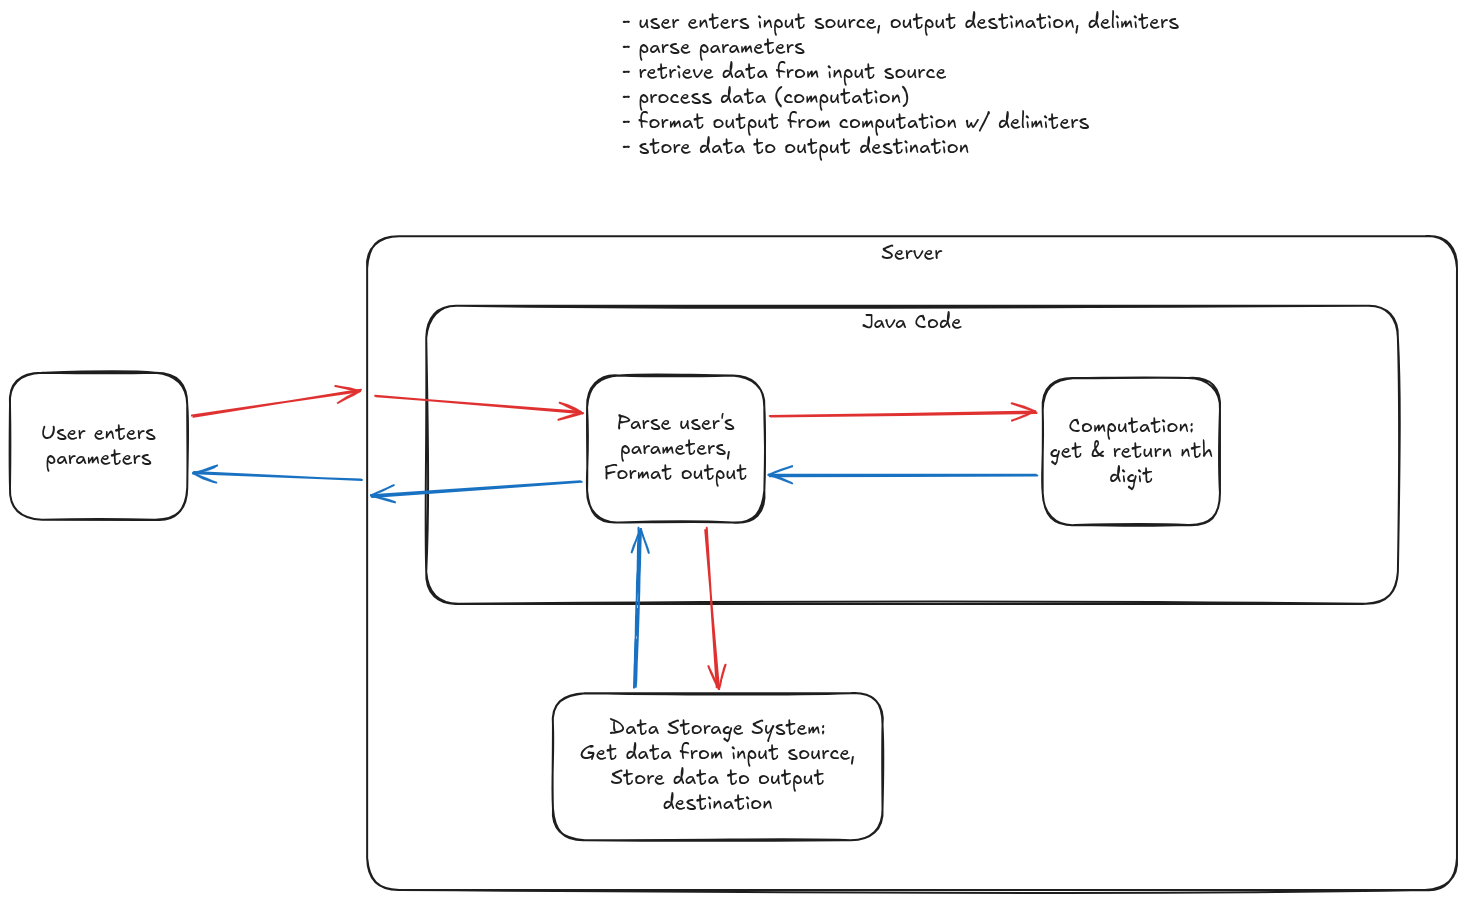
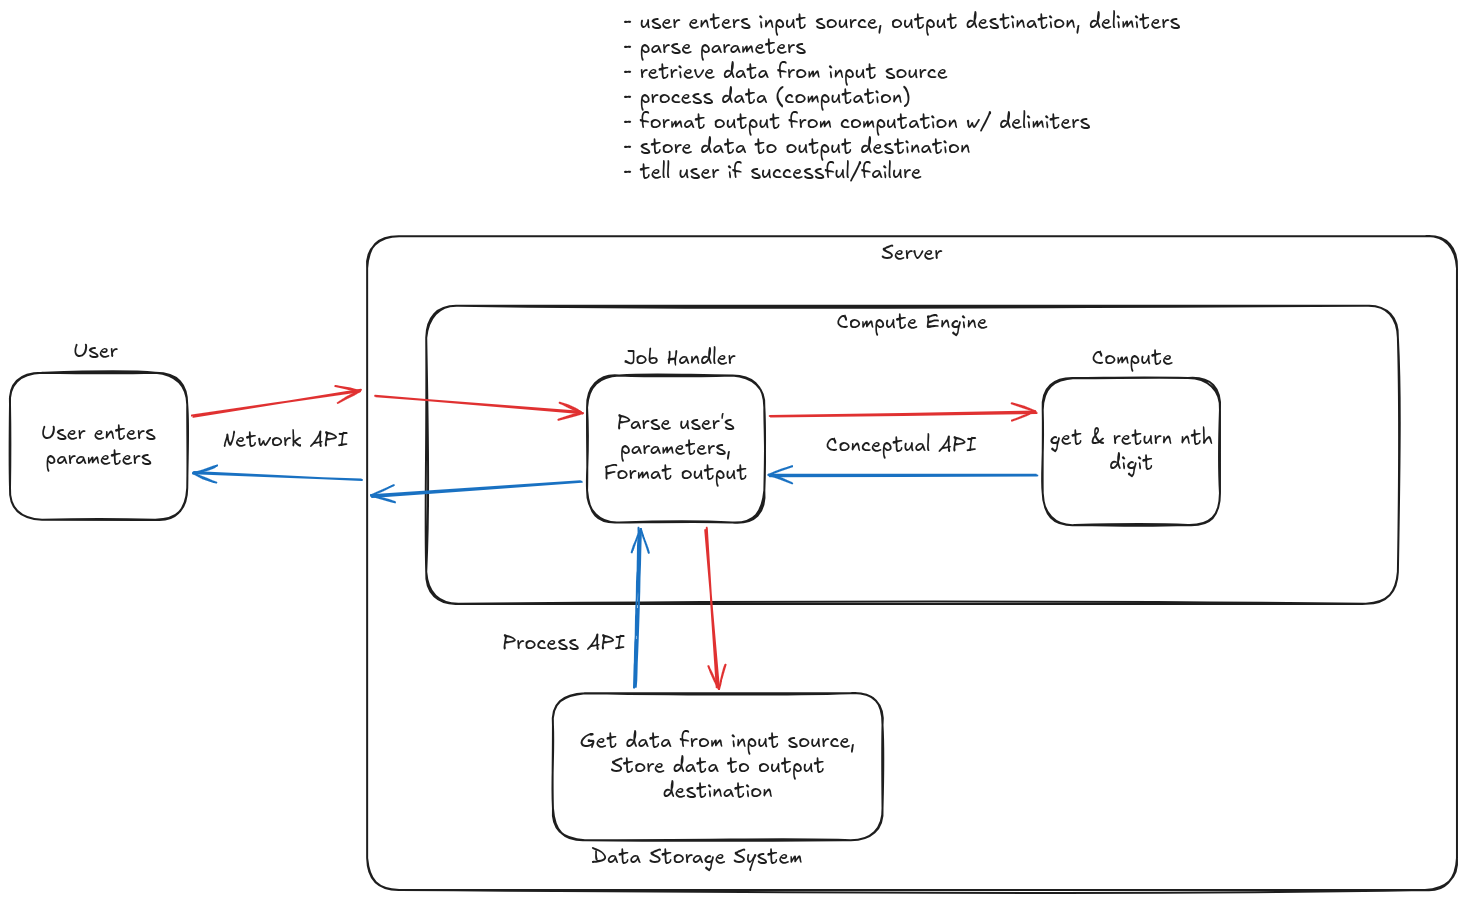
Checkpoint 2 tests (#12)
* chore: added *.class to .gitignore to ignore compiled Java class files

* doc: updated README.md with computation description

* doc: added system diagram image & embedded it in README.md

* doc: updated system diagram

* doc: updated system diagram

* feat: prototyped network API to receive & accept job from user

* feat: prototyped conceptual API to receive request for computation & accept it

* feat: prototyped process api to load and store data as requested

* nit: moved conceptual api files to separate computation package for logical separation

* feat: updated server api to check validity of submitted job, configure job, and attempt to run job

* nit: deleted unused response code enum

* feat: updated process api to be able to provide int[] data

* feat: changed char[] to Character[], prefer wrapper class

* fix: updated SubmitJobResponse.java to match class of delimiter

* feat: changed int[] to Integer[] for loaded input data, prefer wrapper class

* nit: removed trailing new line

* nit: streamlined into single line

* nit: renamed method to match api name

* nit: removed trailing empty line

* fix: build changes to fix junit import issues

* fix: revert build changes

* chore: checkpoint 2 tests

* fix: moved checkpoint test files to test directory, auto-changed package to match

* doc: updated system diagram with labels

* fix: renamed & simplified job handler API

* fix: wrapped retrieved data in a general interface for more implementation control
[…]

diff --git a/test/Checkpoint2TestSuite.java b/test/Checkpoint2TestSuite.java
@@ -1,0 +1,104 @@
+
+
+import java.lang.annotation.Annotation;
+import java.lang.reflect.Method;
+import java.lang.reflect.Parameter;
+import java.util.ArrayList;
+import java.util.List;
+import java.util.stream.Stream;
+
+import org.junit.jupiter.params.ParameterizedTest;
+import org.junit.jupiter.params.provider.Arguments;
+import org.junit.jupiter.params.provider.MethodSource;
+import org.junit.jupiter.params.provider.ValueSource;
+
+import project.annotations.ConceptualAPI;
+import project.annotations.ConceptualAPIPrototype;
+import project.annotations.NetworkAPI;
+import project.annotations.NetworkAPIPrototype;
+import project.annotations.ProcessAPI;
+import project.annotations.ProcessAPIPrototype;
+
+/**
+ * This test checks that all 3 APIs exist in the 'src' folder as interfaces, with the appropriate annotations, and that they all
+ * have corresponding prototypes, also with the appropriate annotations.
+ * 
+ * Remember, it's easiest to build the prototype first, and use that to create the APIs - use Eclipse to auto-generate classes, 
+ * interfaces, etc as you build out the prototype. This ensures that your API is written from the perspective of the client - the prototype
+ * acts as a "pretend" client; while the prototype code will never actually run, it's a bare-bones check that some other fully-featured client
+ * could easily use the API to do everything they need to.
+ */
+public class Checkpoint2TestSuite {
+	
+	@ParameterizedTest(name = ParameterizedTest.ARGUMENTS_PLACEHOLDER)
+	@MethodSource("providePrototypeParams")
+	public void checkPrototypesExist(Class<? extends Annotation> apiAnnotation, 
+	        Class<? extends Annotation> prototypeAnnotation) throws Exception {
+		int numPrototypesFound = 0;
+		List<String> errors = new ArrayList<>();
+		for (Class<?> clazz : Utils.loadAllClasses()) {
+			if (!clazz.isInterface() && !clazz.isEnum() && !clazz.isAnnotation()) {
+				for (Method m : clazz.getDeclaredMethods()) {
+					if (m.isAnnotationPresent(prototypeAnnotation)) {
+					    numPrototypesFound++;
+						Parameter[] parameters = m.getParameters();
+						if (parameters.length != 1) {
+							errors.add("Prototype method should have a single parameter, the API being prototyped. "
+									+ "If you need other data to simulate classes/objects that the client will receive from elsewhere"
+									+ " (a website form, another componenet, etc), just create those as local variables set to null/0 for now. "
+									+ "We'll cover mock objects for the next assignment");
+						} else {
+							Parameter param = parameters[0];
+							if (!param.getType().isAnnotationPresent(apiAnnotation)) {
+								errors.add("Prototype method should have a single parameter, the API being prototyped. "
+										+ "Make sure your API interface has the appropriate annotation!");
+							}
+						}
+					}
+				}
+			}
+			
+		}
+		if (numPrototypesFound != 1) {
+			errors.add("No (or more than one) class method with the " + prototypeAnnotation.getSimpleName() + " annotation was found in 'src'");
+		}
+		if (!errors.isEmpty()) {
+			throw new IllegalStateException(errors.toString());
+		}
+	}
+
+	private static Stream<Arguments> providePrototypeParams() {
+	    return Stream.of(
+	            Arguments.of(ConceptualAPI.class, ConceptualAPIPrototype.class),
+	            Arguments.of(ProcessAPI.class, ProcessAPIPrototype.class),
+	            Arguments.of(NetworkAPI.class, NetworkAPIPrototype.class)
+	    );
+	}
+	
+	@ParameterizedTest(name = ParameterizedTest.ARGUMENTS_PLACEHOLDER)
+	@ValueSource(classes = {NetworkAPI.class, ProcessAPI.class, ConceptualAPI.class })
+	public void checkAnnotationsExist(Class<? extends Annotation> apiAnnotation) throws Exception {
+		int numApisFound = 0;
+		
+		for (Class<?> clazz : Utils.loadAllClasses()) {
+			if (clazz.isInterface()) {
+				if (clazz.isAnnotationPresent(apiAnnotation)) {
+				    numApisFound++;
+				}
+			}
+		}
+		
+		List<String> errors = new ArrayList<>();
+		
+		if (numApisFound != 1) {
+			errors.add("No (or more than one) interface found with annotation " + apiAnnotation.getSimpleName() + " in 'src'");
+			errors.add("Keep in mind that all APIs must be interfaces (not classes), and that each API annotation"
+					+ " must be on a different interface in its own .java file");
+		}
+		if (!errors.isEmpty()) {
+			throw new IllegalStateException(errors.toString());
+		}
+	}
+
+	
+}

diff --git a/test/Utils.java b/test/Utils.java
@@ -1,0 +1,41 @@
+
+
+import java.io.File;
+import java.util.ArrayList;
+import java.util.List;
+
+public class Utils {
+    public static List<Class<?>> loadAllClasses() throws Exception {
+        File rootDir = new File("src");
+        List<Class<?>> result = new ArrayList<>();
+        for (File f : rootDir.listFiles()) {
+            loadClassesRec(f, result, "");
+        }
+        return result;
+    }
+    
+    public static List<Class<?>> loadAllTestClasses() throws Exception {
+        File rootDir = new File("test");
+        List<Class<?>> result = new ArrayList<>();
+        for (File f : rootDir.listFiles()) {
+            loadClassesRec(f, result, "");
+        }
+        return result;
+    }
+
+    private static void loadClassesRec(File f, List<Class<?>> result, String packageName) throws Exception {
+        if (f.isDirectory()) {
+            if (!packageName.isEmpty()) {
+                packageName += ".";
+            }
+            packageName += f.getName();
+            for (File child : f.listFiles()) {
+                loadClassesRec(child, result, packageName);
+            }
+        } else if (f.getName().endsWith(".java")) {
+            String className = f.getName().substring(0, f.getName().length() - 5);
+            String fullName = packageName + (packageName.isEmpty() ? "" : ".") + className;
+            result.add(Utils.class.getClassLoader().loadClass(fullName));
+        }
+    }
+}

diff --git a/src/project/datastore/DataStoreApiPrototype.java b/src/project/datastore/DataStoreApiPrototype.java
@@ -7,19 +7,24 @@ public class DataStoreApiPrototype {
     @ProcessAPIPrototype 
     public void prototype(DataStoreApi dataStore) {
 
-        // Client tries to load some data.
-        LoadDataResponse loadDataResponse = dataStore.load(new LoadDataRequest() {});
+        // Client tries to load data.
+        LoadDataRequest loadRequest = new LoadDataRequest() {};
+        LoadDataResponse loadResponse = dataStore.load(loadRequest);
 
-        // Was the load successful?
-        if (loadDataResponse.isSuccessful()) {
+        // If the load was successful,
+        if (loadResponse.getResponseCode().isSuccessful()) {
 
-            // Retrieve the requested data.
-            Integer[] dataLoaded = loadDataResponse.getData();
+            // Let the client see the retrieved data.
+            DataWrapper dataLoaded = loadResponse.getData();
 
         }
 
         // Client tries to store some data.
-        StoreDataResponse storeDataResponse = dataStore.store(new StoreDataRequest() {});
+        StoreDataRequest storeRequest = new StoreDataRequest() {};
+        StoreDataResponse storeResponse = dataStore.store(storeRequest);
+
+        // Let the client know if the store was successful or not.
+        System.out.println("Store result: " + storeResponse.getResponseCode());
 
     }
 

diff --git a/src/project/server/computation/ComputationApiPrototype.java b/src/project/server/computation/ComputationApiPrototype.java
@@ -7,8 +7,18 @@ public class ComputationApiPrototype {
     @ConceptualAPIPrototype 
     public void prototype(ComputationApi engine) {
 
-        // Client runs computation.
-        ComputeResponse computeResponse = engine.compute(new ComputeRequest() {});
+        // Client submits a computation to perform.
+        ComputeRequest request = new ComputeRequest() {};
+        ComputeResponse response = engine.compute(request);
+
+        // If computation was successful
+        if (response.getResponseCode().isSuccessful()) {
+
+            // Client can see result of computation
+            ComputeOutput output = response.getOutput();
+            System.out.println(output);
+
+        }
 
     }
 

diff --git a/src/project/server/JobHandlerApiPrototype.java b/src/project/server/JobHandlerApiPrototype.java
@@ -1,0 +1,19 @@
+package project.server;
+
+import project.annotations.NetworkAPIPrototype;
+
+public class JobHandlerApiPrototype {
+
+    @NetworkAPIPrototype
+    public void prototype(JobHandlerApi jobHandler) {
+
+        // Client submits some job to compute.
+        SubmitJobRequest request = new SubmitJobRequest() {};
+        SubmitJobResponse response = jobHandler.configureJob(request);
+
+        // Client is told whether job was successful or not.
+        System.out.println("Result: " + response.getResponseCode());
+
+    }
+
+}

diff --git a/src/project/server/SubmitJobResponse.java b/src/project/server/SubmitJobResponse.java
@@ -2,12 +2,6 @@ package project.server;
 
 public interface SubmitJobResponse {
 
-    boolean hasCustomDelimiters();
-
-    DataSource getSource();
-    DataDestination getDestination();
-    Character[] getDelimiters();
-
-    boolean isValid();
+    JobResponseCode getResponseCode();
 
 }

diff --git a/src/project/datastore/LoadDataResponse.java b/src/project/datastore/LoadDataResponse.java
@@ -2,7 +2,7 @@ package project.datastore;
 
 public interface LoadDataResponse {
 
-    boolean isSuccessful();
-    Integer[] getData();
+    LoadResponseCode getResponseCode();
+    DataWrapper getData();
 
 }

diff --git a/src/project/server/JobHandlerApi.java b/src/project/server/JobHandlerApi.java
@@ -1,0 +1,10 @@
+package project.server;
+
+import project.annotations.NetworkAPI;
+
+@NetworkAPI
+public interface JobHandlerApi {
+
+    SubmitJobResponse configureJob(SubmitJobRequest request);
+
+}

diff --git a/src/project/server/computation/ComputeResponse.java b/src/project/server/computation/ComputeResponse.java
@@ -2,4 +2,7 @@ package project.server.computation;
 
 public interface ComputeResponse {
     
+    ComputeResponseCode getResponseCode();
+    ComputeOutput getOutput();
+
 }

diff --git a/src/project/datastore/StoreDataResponse.java b/src/project/datastore/StoreDataResponse.java
@@ -2,4 +2,6 @@ package project.datastore;
 
 public interface StoreDataResponse {
     
+    StoreResponseCode getResponseCode();
+
 }

diff --git a/src/project/server/computation/ComputeResponseCode.java b/src/project/server/computation/ComputeResponseCode.java
@@ -1,0 +1,7 @@
+package project.server.computation;
+
+public interface ComputeResponseCode {
+    
+    boolean isSuccessful();
+
+}

diff --git a/src/project/datastore/StoreResponseCode.java b/src/project/datastore/StoreResponseCode.java
@@ -1,0 +1,7 @@
+package project.datastore;
+
+public interface StoreResponseCode {
+    
+    boolean isSuccessful();
+
+}
